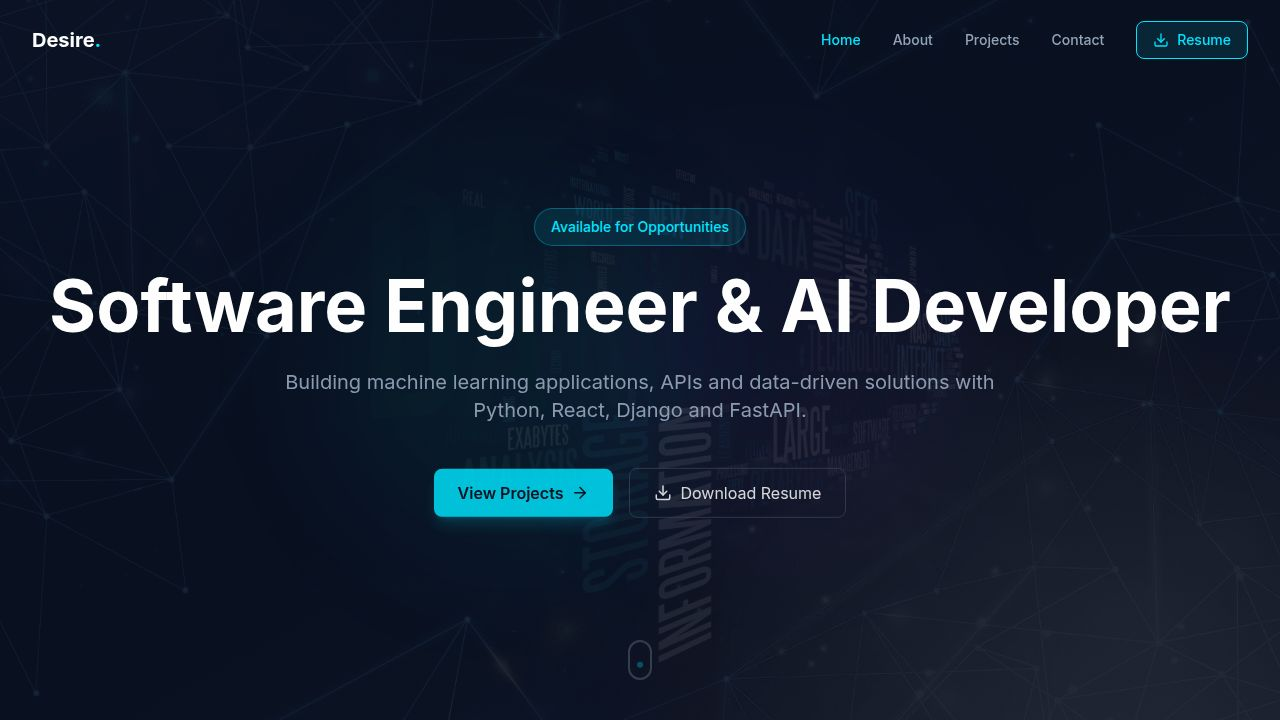
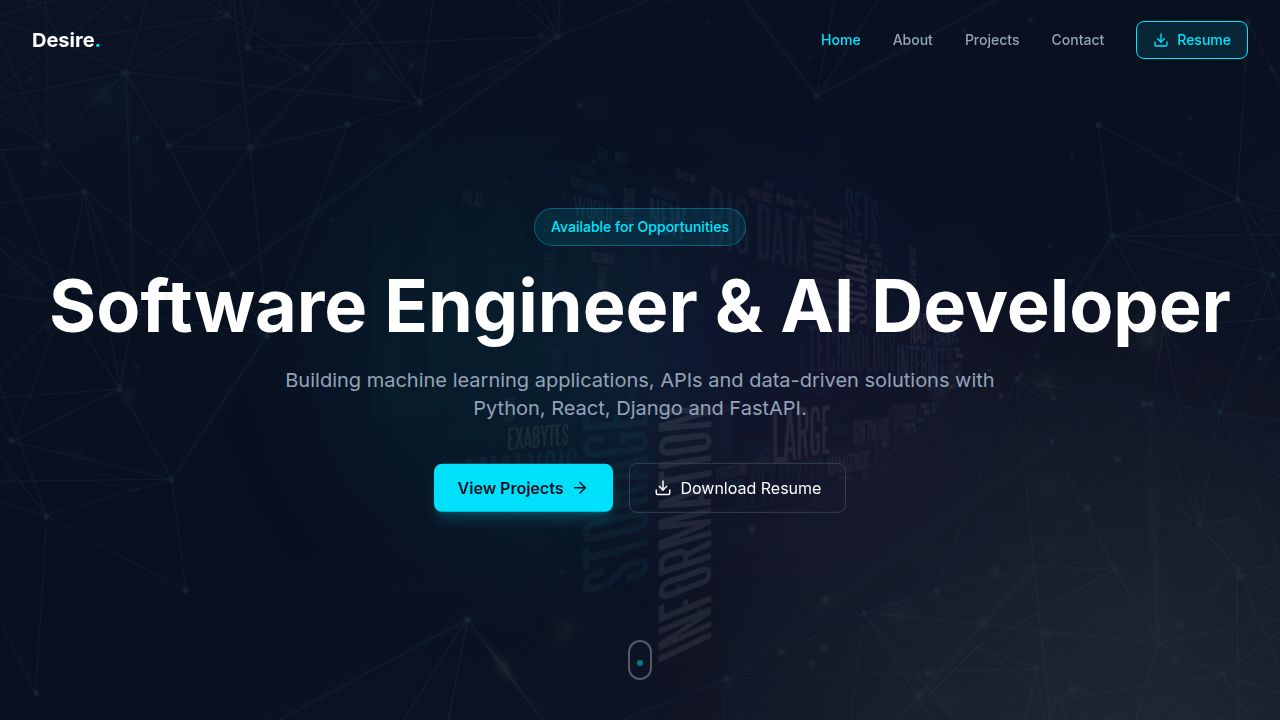
Add detailed README and adjust project naming for external use
Update package.json to use '@user/portfolio' and create a comprehensive README.md file for the project.

Replit-Commit-Author: Agent
Replit-Commit-Session-Id: fbca3139-9691-458c-9749-d0587c6ea7a1
Replit-Commit-Checkpoint-Type: full_checkpoint
Replit-Commit-Event-Id: ad8b2659-eb24-431a-840f-178bfb13706d
Replit-Commit-Screenshot-Url: https://storage.googleapis.com/screenshot-production-us-central1/27895dab-2178-456c-b45a-39e8a46ae778/fbca3139-9691-458c-9749-d0587c6ea7a1/bJJFOLD
Replit-Helium-Checkpoint-Created: true

Changed region(s): [[0.2188, 0.5194, 0.7812, 0.5806], [0.3125, 0.6417, 0.6562, 0.7333]]

diff --git a/README.md b/README.md
@@ -1,0 +1,213 @@
+# Desire Eyotaru — Portfolio
+
+> Personal portfolio website for **Desire Eyotaru**, Software Engineer & AI Developer specialising in machine learning, backend APIs, and data-driven solutions.
+
+**Live site:** _add your Vercel URL here after deploying_
+
+---
+
+## Features
+
+- **Animated hero section** with availability badge and stats
+- **Projects gallery** — 6 real projects with GitHub links and live demos
+- **About page** — background, skills, and tech stack breakdown
+- **Contact form** — sends emails directly to your inbox via EmailJS (no backend needed)
+- **Resume download** — one-click PDF download from the navbar
+- **Fully responsive** — looks great on all screen sizes
+- **Smooth animations** — powered by Framer Motion throughout
+
+---
+
+## Tech Stack
+
+| Area | Technology |
+|---|---|
+| Framework | React 19 + TypeScript |
+| Build tool | Vite 7 |
+| Styling | Tailwind CSS v3 |
+| Animations | Framer Motion |
+| Routing | React Router DOM v7 |
+| Icons | Lucide React |
+| Email | EmailJS |
+| Deployment | Vercel |
+
+---
+
+## Project Structure
+
+```
+portfolio/
+├── index.html                 # App entry point
+├── vite.config.ts             # Vite build config
+├── tailwind.config.js         # Tailwind theme (colors, fonts, animations)
+├── tsconfig.json              # TypeScript config
+├── vercel.json                # Vercel SPA routing rules
+├── .env.example               # Required environment variable names
+│
+├── public/
+│   ├── documents/
+│   │   └── Resume.pdf         # Downloadable resume
+│   └── images/                # Page backgrounds + project screenshots
+│
+└── src/
+    ├── main.tsx               # React entry point
+    ├── App.tsx                # Router + layout
+    ├── index.css              # Global styles + Tailwind base
+    │
+    ├── pages/
+    │   ├── Home.tsx           # Hero, stats, featured projects
+    │   ├── About.tsx          # Background, skills, timeline
+    │   ├── Projects.tsx       # Full project grid with filters
+    │   └── Contact.tsx        # EmailJS contact form + social links
+    │
+    ├── components/
+    │   ├── Navbar.tsx         # Fixed top nav with mobile menu
+    │   ├── Footer.tsx         # Footer with links
+    │   ├── ProjectCard.tsx    # Reusable project card
+    │   ├── AnimatedSection.tsx # Scroll-triggered fade-in wrapper
+    │   ├── PageTransition.tsx # Page-to-page animation wrapper
+    │   └── SkillBadge.tsx     # Tech skill badge component
+    │
+    └── data/                  # All content lives here — edit to update the site
+        ├── profile.ts         # Name, email, phone, location, availability
+        ├── projects.ts        # Projects list with GitHub + demo links
+        ├── skills.ts          # Skills and proficiency levels
+        └── socials.ts         # GitHub and LinkedIn URLs
+```
+
+---
+
+## Getting Started Locally
+
+### Prerequisites
+
+- [Node.js](https://nodejs.org/) v18+
+- [pnpm](https://pnpm.io/) (or npm / yarn)
+
+### 1. Clone the repo
+
+```bash
+git clone https://github.com/Desire-in-tech/YOUR-REPO-NAME.git
+cd YOUR-REPO-NAME
+```
+
+### 2. Install dependencies
+
+```bash
+pnpm install
+```
+
+### 3. Set up environment variables
+
+Copy the example file and fill in your EmailJS credentials:
+
+```bash
+cp .env.example .env.local
+```
+
+Open `.env.local` and add your values:
+
+```env
+VITE_EMAILJS_SERVICE_ID=service_xxxxxxx
+VITE_EMAILJS_TEMPLATE_ID=template_xxxxxxx
+VITE_EMAILJS_PUBLIC_KEY=xxxxxxxxxxxxxxxxxxxx
+```
+
+> See the [EmailJS Setup](#emailjs-setup) section below for how to get these values.
+
+### 4. Run the development server
+
+```bash
+pnpm dev
+```
+
+Open [http://localhost:3000](http://localhost:3000) in your browser.
+
+---
+
+## EmailJS Setup
+
+The contact form sends emails directly from the browser — no server required.
+
+1. Create a free account at [emailjs.com](https://www.emailjs.com/)
+2. **Add an Email Service** → Email Services → Add New Service → choose Gmail → connect your account. Copy the **Service ID**.
+3. **Create a Template** → Email Templates → Create New Template. Use these variables in the body:
+
+   ```
+   From: {{from_name}} ({{from_email}})
+   
+   {{message}}
+   ```
+
+   Set the subject to: `New message from {{from_name}} — Portfolio`
+   Copy the **Template ID**.
+
+4. **Get your Public Key** → Account → General → Public Key
+
+Add all three values to your `.env.local` file (locally) and to your Vercel environment variables (in production).
+
+---
+
+## Customising Your Content
+
+All site content lives in `src/data/` — no need to touch the component files:
+
+| File | What to change |
+|---|---|
+| `profile.ts` | Your name, title, email, phone, location, availability status |
+| `projects.ts` | Add/edit/remove projects — title, description, tech stack, GitHub link, demo link, image |
+| `skills.ts` | Your skills and proficiency levels |
+| `socials.ts` | Your GitHub and LinkedIn profile URLs |
+
+To replace your **resume**, swap out `public/documents/Resume.pdf` (keep the same filename).
+
+To replace **page images**, drop new files into `public/images/` (keep the same filenames).
+
+---
+
+## Deployment on Vercel
+
+### Option A — Automatic (recommended)
+
+1. Push this repo to GitHub
+2. Go to [vercel.com](https://vercel.com) → New Project → import your GitHub repo
+3. Leave all build settings as defaults (Vercel auto-detects Vite)
+4. Go to **Settings → Environment Variables** and add all three `VITE_EMAILJS_*` variables
+5. Click **Deploy**
+
+Every push to `main` will trigger a new deployment automatically.
+
+### Option B — Vercel CLI
+
+```bash
+pnpm install -g vercel
+vercel
+```
+
+Follow the prompts, then add environment variables in the Vercel dashboard.
+
+---
+
+## Available Scripts
+
+| Command | Description |
+|---|---|
+| `pnpm dev` | Start the local development server |
+| `pnpm build` | Build for production (output → `dist/`) |
+| `pnpm preview` | Preview the production build locally |
+| `pnpm typecheck` | Run TypeScript type checking |
+
+---
+
+## License
+
+This project is open source and available under the [MIT License](LICENSE).
+
+---
+
+## Contact
+
+**Desire Eyotaru** — [[email redacted]](mailto:[email redacted])
+
+- GitHub: [@Desire-in-tech](https://github.com/Desire-in-tech)
+- LinkedIn: [desire-e-92935a363](https://www.linkedin.com/in/desire-e-92935a363)